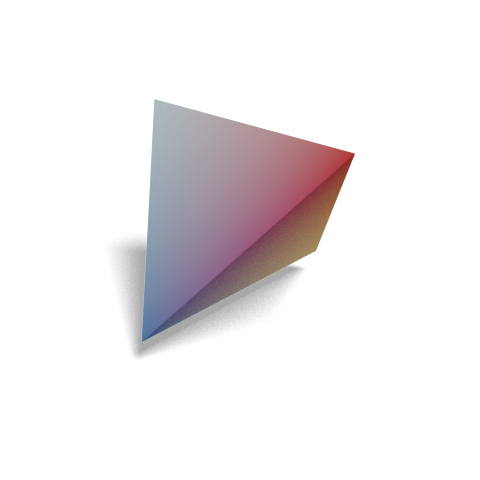
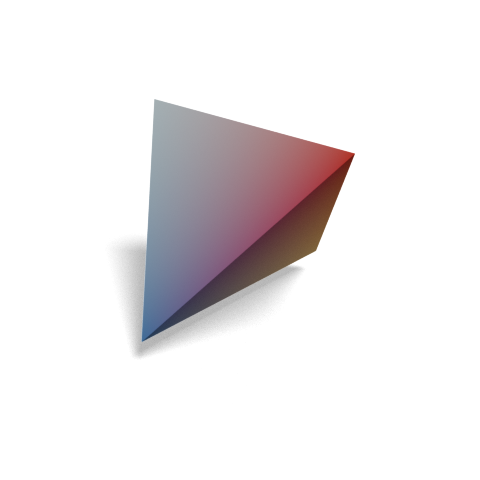
all demos work on bpy=4.0

Changed region(s): [[0.3125, 0.3125, 0.75, 0.7188]]

diff --git a/BlenderToolBox/createVectorFieldMesh.py b/BlenderToolBox/createVectorFieldMesh.py
@@ -67,8 +67,14 @@ def createVectorFieldMesh(P, PN, thickness, length, location, rotation, scale):
     MOD = P_mesh.modifiers[-1]
     name = "GeometryNodeTree"
     group = bpy.data.node_groups.new(name, "GeometryNodeTree")
-    group.inputs.new('NodeSocketGeometry', name)
-    group.outputs.new('NodeSocketGeometry', name)
+    # group.inputs.new('NodeSocketGeometry', name)
+    #### To add a new socket
+    # Taken from here
+    # https://blender.stackexchange.com/questions/305827/add-or-remove-item-socket-in-nodetree-node-group-new-items-tree-blende
+
+    group.interface.new_socket(name='NodeSocketGeometry', in_out='INPUT', socket_type='NodeSocketGeometry', )
+    group.interface.new_socket(name='NodeSocketGeometry', in_out='OUTPUT', socket_type='NodeSocketGeometry', )
+
     IN = group.nodes.new('NodeGroupInput')
     OUT = group.nodes.new('NodeGroupOutput')
     OUT.is_active_output = True

diff --git a/BlenderToolBox/setMat_transparent.py b/BlenderToolBox/setMat_transparent.py
@@ -23,9 +23,9 @@ def setMat_transparent(mesh, meshColor, alpha, transmission, roughness = 0.7):
 
 	# set principled BSDF
 	tree.nodes["Principled BSDF"].inputs['Roughness'].default_value = roughness
-	tree.nodes["Principled BSDF"].inputs['Sheen Tint'].default_value = 0
+	tree.nodes["Principled BSDF"].inputs['Sheen Tint'].default_value = [0, 0, 0, 1]
 	tree.nodes["Principled BSDF"].inputs['Metallic'].default_value = 0.0
-	tree.nodes["Principled BSDF"].inputs['Transmission'].default_value = transmission
+	tree.nodes["Principled BSDF"].inputs['Transmission Weight'].default_value = transmission
 	tree.nodes["Principled BSDF"].inputs['Alpha'].default_value = alpha
 
 	# set color using Hue/Saturation node

diff --git a/BlenderToolBox/copyToVertexSubset.py b/BlenderToolBox/copyToVertexSubset.py
@@ -19,6 +19,11 @@ def copyToVertexSubset(mesh, templateObj, VIdx):
     bpy.context.view_layer.objects.active = templateObj
     for ii in VIdx:
         Vloc = mesh.matrix_world @ mesh.data.vertices[int(ii)].co
-        bpy.ops.object.duplicate({"object" : templateObj}, linked=True)
-        objCopy = bpy.context.object
+
+        bpy.ops.object.duplicate( linked=True)  # annoying I can't specify object i want to apply this to in here
+        bpy.context.selected_objects.clear()
+        templateObj.select_set(True)
+
+        objCopy = bpy.context.active_object
+
         objCopy.location = Vloc

diff --git a/BlenderToolBox/setMat_pointCloudColored.py b/BlenderToolBox/setMat_pointCloudColored.py
@@ -39,7 +39,7 @@ def setMat_pointCloudColored(mesh, meshColor, ptSize):
 
     # set principled BSDF
     tree.nodes["Principled BSDF"].inputs['Roughness'].default_value = 1.0
-    tree.nodes["Principled BSDF"].inputs['Sheen Tint'].default_value = 0
+    tree.nodes["Principled BSDF"].inputs['Sheen Tint'].default_value = [0, 0, 0, 1]
     tree.links.new(HSVNode.outputs['Color'], BCNode.inputs['Color'])
     tree.links.new(BCNode.outputs['Color'], tree.nodes['Principled BSDF'].inputs['Base Color'])
 

diff --git a/BlenderToolBox/drawSphere.py b/BlenderToolBox/drawSphere.py
@@ -28,6 +28,6 @@ def drawSphere(ptSize, ptColor, ptLoc = (1e10,1e10,1e10)):
     BCNode = initColorNode(tree, ptColor)
 
     tree.nodes["Principled BSDF"].inputs['Roughness'].default_value = 1.0
-    tree.nodes["Principled BSDF"].inputs['Sheen Tint'].default_value = 0
+    tree.nodes["Principled BSDF"].inputs['Sheen Tint'].default_value = [0, 0, 0, 1]
     tree.links.new(BCNode.outputs['Color'], tree.nodes['Principled BSDF'].inputs['Base Color'])
     return sphere

diff --git a/BlenderToolBox/setMat_poop.py b/BlenderToolBox/setMat_poop.py
@@ -42,7 +42,7 @@ def setMat_poop(mesh, poopRGB1, poopRGB2, noiseScale, noiseDetail, noiseDistorti
     CR2.location.x -= 800
 
     PRIN = tree.nodes["Principled BSDF"]
-    PRIN.inputs["Specular"].default_value = 0
+    PRIN.inputs["Specular IOR Level"].default_value = 0
     tree.links.new(CR2.outputs[0], PRIN.inputs[0])
 
     GLO = tree.nodes.new('ShaderNodeBsdfGlossy')
